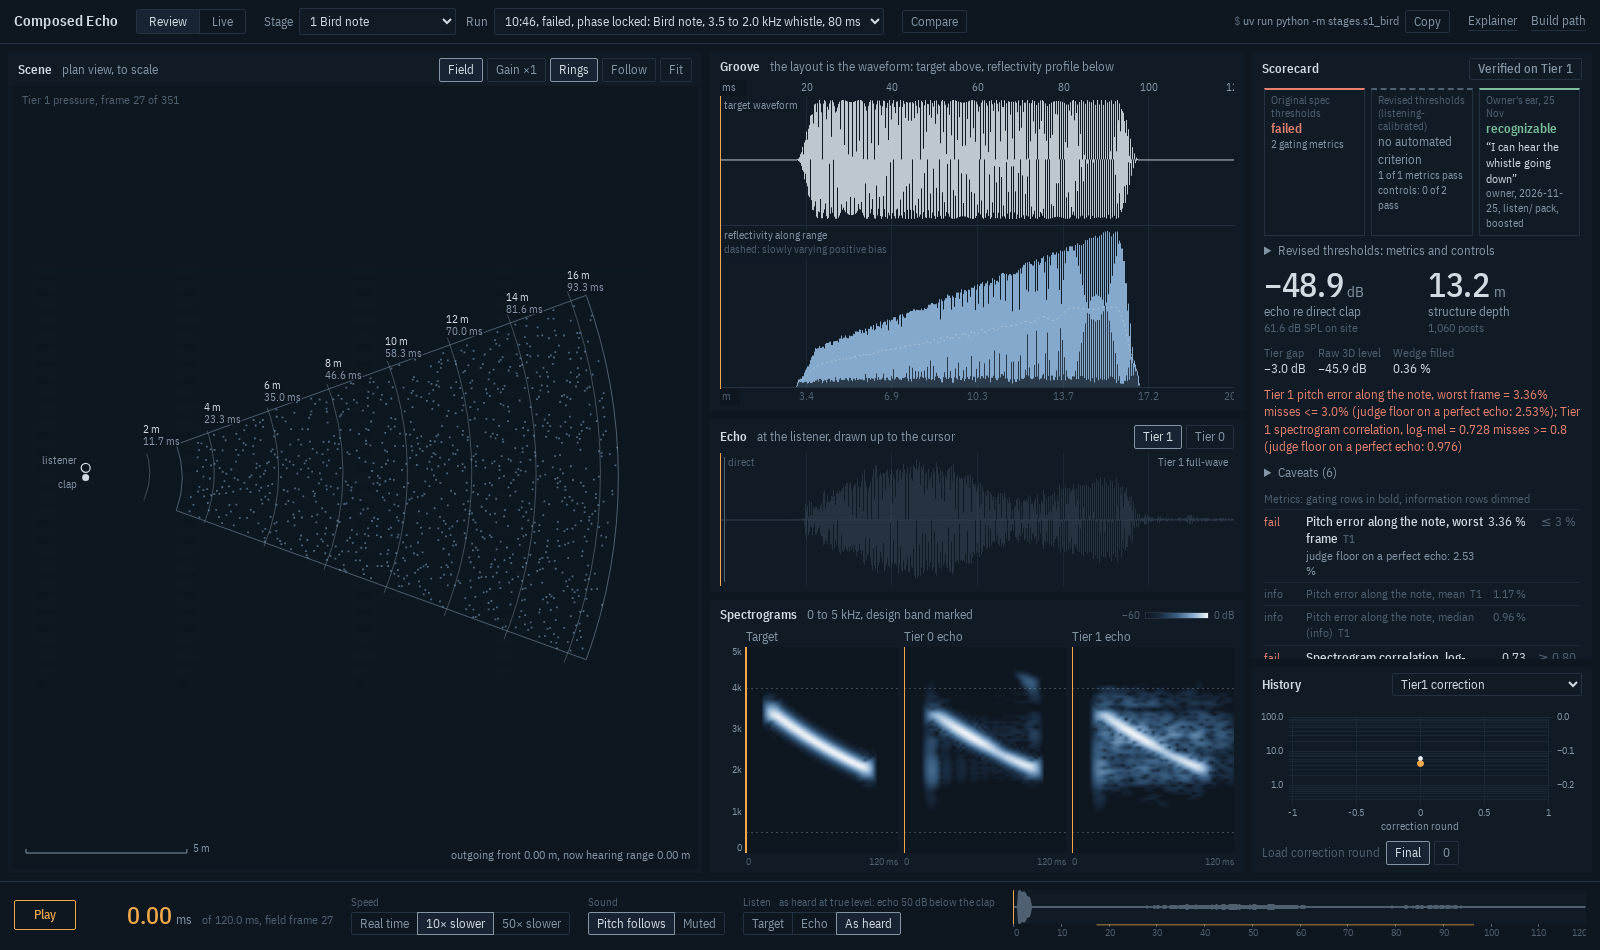
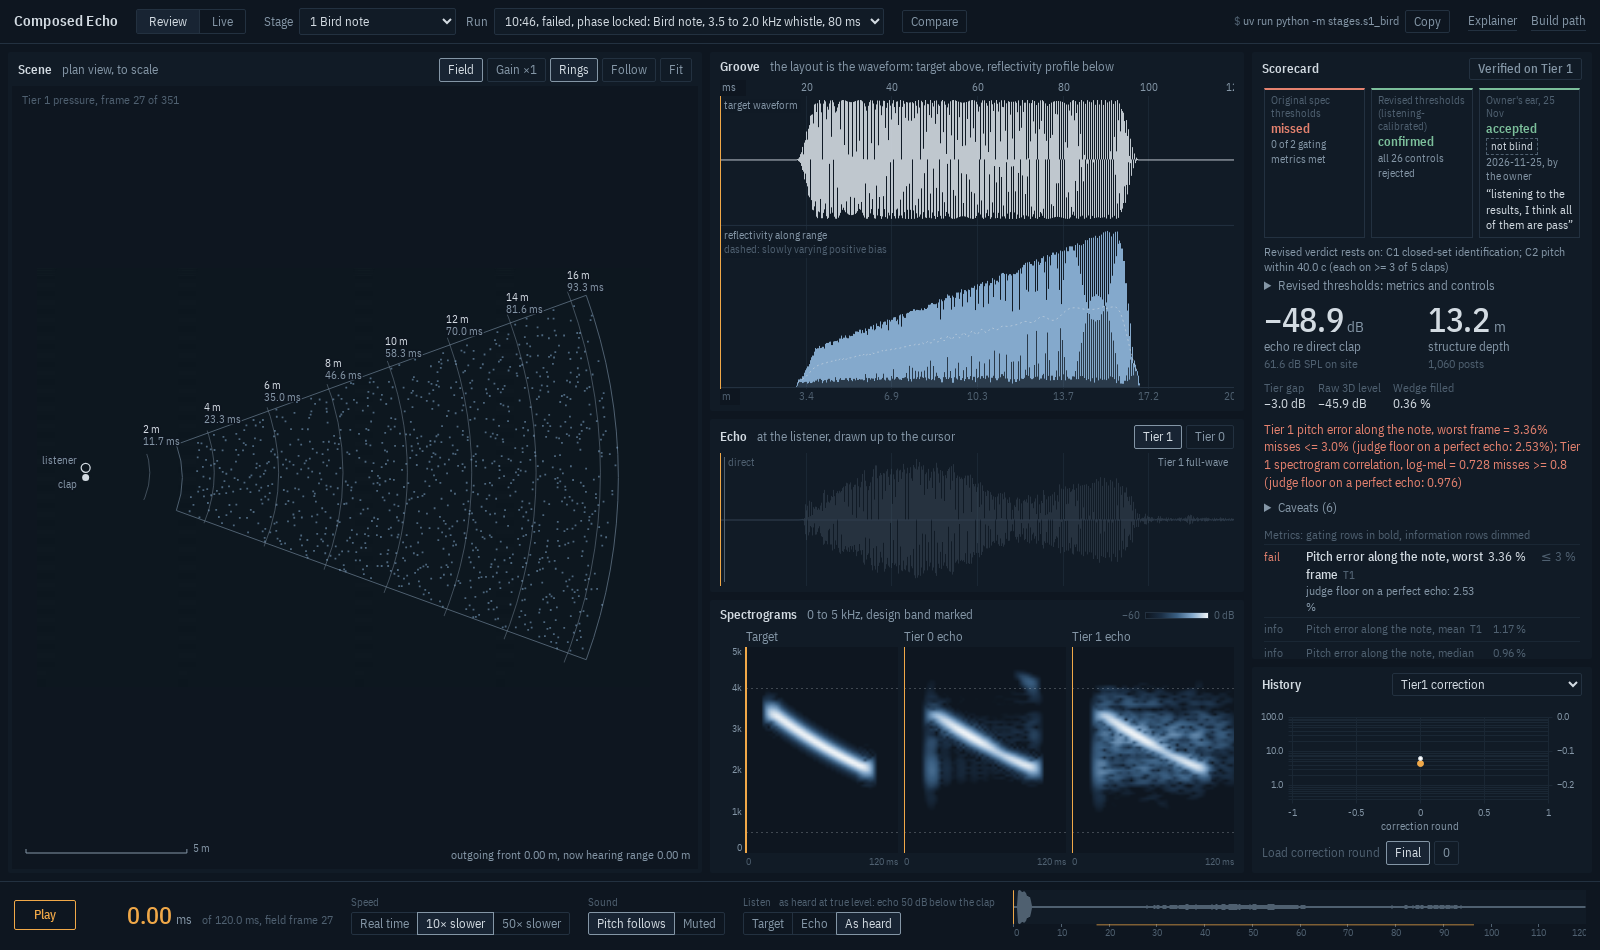
Viewer scorecard: verdicts from real metrics (missed/confirmed/not established/accepted, not blind, rests-on and note), no misleading stamp for custom runs

Changed region(s): [[0.7812, 0.1221, 1.0, 0.7021]]

diff --git a/viewer/js/scorecard.js b/viewer/js/scorecard.js
@@ -28,6 +28,8 @@ function longText(cls, text) {
 export function verdictOf(run, metrics = run.metrics) {
   const m = run.manifest, verified = (metrics?.verified ?? m.verified) && m.status !== "tier0_only";
   if (!verified) return { cls: "unverified", text: "UNVERIFIED — Tier 0 only" };
+  // custom designs have no pass condition: say so instead of "failed"
+  if (metrics && !metrics.passed && !(metrics.metrics ?? []).some((x) => x.gating) && !metrics.criteria) return { cls: "basis", text: "Verified on Tier 1, no pass criterion" };
   if (metrics?.passed) return { cls: "pass", text: metrics.fragile ? "Passed on Tier 1, fragile" : "Passed on Tier 1" };
   return { cls: "fail", text: metrics?.fragile ? "Failed on Tier 1, fragile" : "Failed on Tier 1" };
 }
@@ -123,30 +125,36 @@ export class ScorePanel {
 }
 
 // Three verdicts side by side, never merged: the spec's thresholds, the listening-calibrated revision, the owner's ear.
-const yesNo = (p) => (p === true ? ["pass", "passed"] : p === false ? ["fail", "failed"] : ["info", "no automated criterion"]);
 function verdicts(metrics) {
   const c = metrics.criteria ?? {}, s1 = c.spec_v1, o2 = c.owner_v2, lv = metrics.listening_verdict;
-  if (!s1 && !o2 && !lv) return null;
+  if (!s1 && !o2 && !lv) return null; // custom / pilot runs: nothing, rather than a misleading empty verdict
   const cell = (title, cls, text, ...more) => el("div", { class: `vcell ${cls}` }, el("div", { class: "vt" }, title), el("div", { class: "vv" }, text), ...more);
   const cells = [];
-  if (s1) { const [k, t] = yesNo(s1.passed);
-    cells.push(cell("Original spec thresholds", k, t, s1.gating?.length ? el("div", { class: "vd", title: s1.gating.map((g) => (typeof g === "string" ? g : g.label ?? g.id)).join(", ") }, `${s1.gating.length} gating metrics`) : null)); }
-  else cells.push(cell("Original spec thresholds", "info", "not recorded"));
-  if (o2) { const [k, t] = yesNo(o2.passed), ms = o2.metrics ?? [];
-    cells.push(cell("Revised thresholds (listening-calibrated)", k, t,
-      ms.length ? el("div", { class: "vd" }, `${ms.filter((m) => m.pass).length} of ${ms.length} metrics pass`) : null,
-      o2.controls?.length ? el("div", { class: "vd" }, `controls: ${o2.controls.filter((x) => x.pass).length} of ${o2.controls.length} pass`) : null)); }
-  else cells.push(cell("Revised thresholds (listening-calibrated)", "info", "not recorded"));
-  if (lv) cells.push(cell("Owner's ear, 25 Nov", /^(pass|yes|heard|recogni)/i.test(lv.verdict ?? "") ? "pass" : /^(fail|no|not)/i.test(lv.verdict ?? "") ? "fail" : "info", lv.verdict ?? "—",
-    lv.quote ? el("q", { class: "vq" }, lv.quote) : null, el("div", { class: "vd" }, [lv.by, lv.date, lv.basis].filter(Boolean).join(", "))));
-  else cells.push(cell("Owner's ear, 25 Nov", "info", "not recorded"));
-  const out = [el("div", { class: "verdicts" }, cells)];
+  // strict: the spec's own thresholds
+  if (s1) cells.push(cell("Original spec thresholds", s1.passed === true ? "pass" : s1.passed === false ? "fail" : "info",
+    s1.passed === true ? "passed" : s1.passed === false ? "missed" : "not established",
+    s1.gating?.length ? el("div", { class: "vd", title: s1.gating.map((g) => (typeof g === "string" ? g : `${g.label ?? g.id}: ${withUnit(g.value, g.unit)}`)).join("\n") },
+      `${s1.gating.filter((g) => g.pass).length} of ${s1.gating.length} gating metrics met`) : null));
+  // revised: listening-calibrated; null = no automated criterion established for this run
+  if (o2) cells.push(cell("Revised thresholds (listening-calibrated)", o2.passed === true ? "pass" : o2.passed === false ? "fail" : "info",
+    o2.passed === true ? "confirmed" : o2.passed === false ? "not confirmed" : "not established",
+    o2.passed == null ? el("div", { class: "vd" }, "no automated criterion") : null,
+    o2.controls?.length ? el("div", { class: "vd" }, o2.controls_all_fail ? `all ${o2.controls.length} controls rejected` : `${o2.controls.filter((x) => x.pass).length} of ${o2.controls.length} controls pass`) : null));
+  // the owner's ear: always labelled not blind when it was not
+  if (lv) { const acc = /^(pass|accept|yes|heard|recogni)/i.test(lv.verdict ?? ""), rej = /^(fail|reject|no|not)/i.test(lv.verdict ?? "");
+    cells.push(cell("Owner's ear, 25 Nov", acc ? "pass" : rej ? "fail" : "info", el("span", {}, acc ? "accepted" : rej ? "rejected" : lv.verdict ?? "\u2014",
+      lv.blind === false ? el("span", { class: "notblind", title: lv.note ?? "The listener knew each target" }, "not blind") : lv.blind === true ? el("span", { class: "notblind" }, "blind") : null),
+      el("div", { class: "vd" }, [lv.date, lv.by ? `by the ${lv.by}` : null].filter(Boolean).join(", ")),
+      lv.quote ? el("q", { class: "vq", title: lv.basis ?? "" }, lv.quote) : null)); }
+  const out = [el("div", { class: `verdicts n${cells.length}` }, cells)];
+  // what the revised verdict rests on, and its note (collapsed when long)
+  if (o2?.rests_on) out.push(el("p", { class: "rests" }, `Revised verdict rests on: ${o2.rests_on}`));
+  if (o2?.note) out.push(o2.note.length > 140 ? el("details", { class: "caveats v2" }, el("summary", {}, `Note: ${o2.note.slice(0, 90).replace(/[ ,;]+\S*$/, "")}\u2026`), el("p", { class: "diag" }, o2.note))
+    : el("p", { class: "rests" }, `Note: ${o2.note}`));
   // the revised criterion's own numbers, one click away
-  if (o2 && ((o2.metrics ?? []).length || o2.note || o2.controls?.length)) out.push(el("details", { class: "caveats v2" }, el("summary", {}, "Revised thresholds: metrics and controls"),
-    el("ul", { class: "vlist" }, (o2.metrics ?? []).map((m) => el("li", {}, el("span", { class: m.pass == null ? "info" : m.pass ? "pass" : "fail" }, m.pass == null ? "—" : m.pass ? "pass" : "fail"),
-      ` ${m.label ?? m.id}: ${withUnit(m.value, m.unit)}${m.comparator ? ` (${CMP[m.comparator] ?? m.comparator} ${thrUnit(m.threshold, m.unit)})` : ""}`)),
-      (o2.controls ?? []).map((c) => el("li", {}, el("span", { class: c.pass ? "fail" : "pass" }, c.pass ? "passes" : "fails"), ` control "${c.name}"${c.kind ? ` (${c.kind})` : ""}`))),
-    o2.controls?.length ? el("p", { class: "diag" }, o2.controls_all_fail ? "Every control fails, as it should." : "Some controls pass: the criterion does not separate this echo from them.") : null,
-    o2.note ? el("p", { class: "diag" }, o2.note) : null));
+  if (o2 && ((o2.metrics ?? []).length || o2.controls?.length)) out.push(el("details", { class: "caveats v2" }, el("summary", {}, "Revised thresholds: metrics and controls"),
+    el("ul", { class: "vlist" }, (o2.metrics ?? []).map((m) => el("li", {}, el("span", { class: m.pass == null ? "info" : m.pass ? "pass" : "fail" }, m.pass == null ? "\u2014" : m.pass ? "met" : "missed"),
+      ` ${m.label ?? m.id}: ${withUnit(m.value, m.unit)}${m.comparator ? ` (${CMP[m.comparator] ?? m.comparator} ${thrUnit(m.threshold, m.unit)})` : ""}${m.used === false ? " (not used)" : ""}`)),
+      (o2.controls ?? []).map((c) => el("li", {}, el("span", { class: c.pass ? "fail" : "pass" }, c.pass ? "passes" : "rejected"), ` control ${c.name}${c.kind ? ` (${c.kind})` : ""}`)))));
   return out;
 }

diff --git a/viewer/js/main.js b/viewer/js/main.js
@@ -48,7 +48,7 @@ function fillSwitcher(stageSel, runSel, current, onPick) {
   const runsOf = (s) => state.runs.filter((r) => r.stage === s);
   // what tells runs apart goes first (time, verdict, design tag), then the title
   const label = (r) => { const m = metaOf(r), tag = m.realization ? m.realization.replace(/_/g, " ") : "", hm = hhmm(r.created);
-    const verdict = r.status === "intermediate" ? "intermediate" : !r.verified ? "unverified" : r.passed ? "passed" : "failed";
+    const verdict = r.status === "intermediate" ? "intermediate" : !r.verified ? "unverified" : r.stage === "custom" ? "verified" : r.passed ? "passed" : "failed";
     return `${hm ? `${hm}, ` : ""}${verdict}${tag ? `, ${tag}` : ""}: ${r.title ?? r.run_id}`; };
   const opt = (r, sel) => el("option", { value: r.path, selected: r.path === sel, title: r.path }, label(r));
   // runs grouped by sub-stage (4a/4b/4c) when a stage has them; failures stay listed

diff --git a/viewer/style.css b/viewer/style.css
@@ -339,3 +339,8 @@ body.live #compare, body.live #compareBox { display: none; }
 .verdict.basis { color: var(--dim); border-color: var(--line); font-weight: 500; }
 .v2 { margin-top: -4px; }
 .irnote .irwarn { color: var(--dim); }
+.verdicts.n2 { grid-template-columns: repeat(2, minmax(0, 1fr)); }
+.notblind { font-size: 10.5px; font-weight: 400; color: var(--text); border: 1px dashed var(--faint); padding: 0 4px; margin-left: 6px; vertical-align: 1px; white-space: nowrap; }
+.rests { color: var(--dim); font-size: 11.5px; margin: -4px 0 6px; }
+.vcell .vv > span { display: inline-flex; flex-wrap: wrap; align-items: baseline; gap: 1px 6px; }
+.vcell .notblind { margin-left: 0; }
